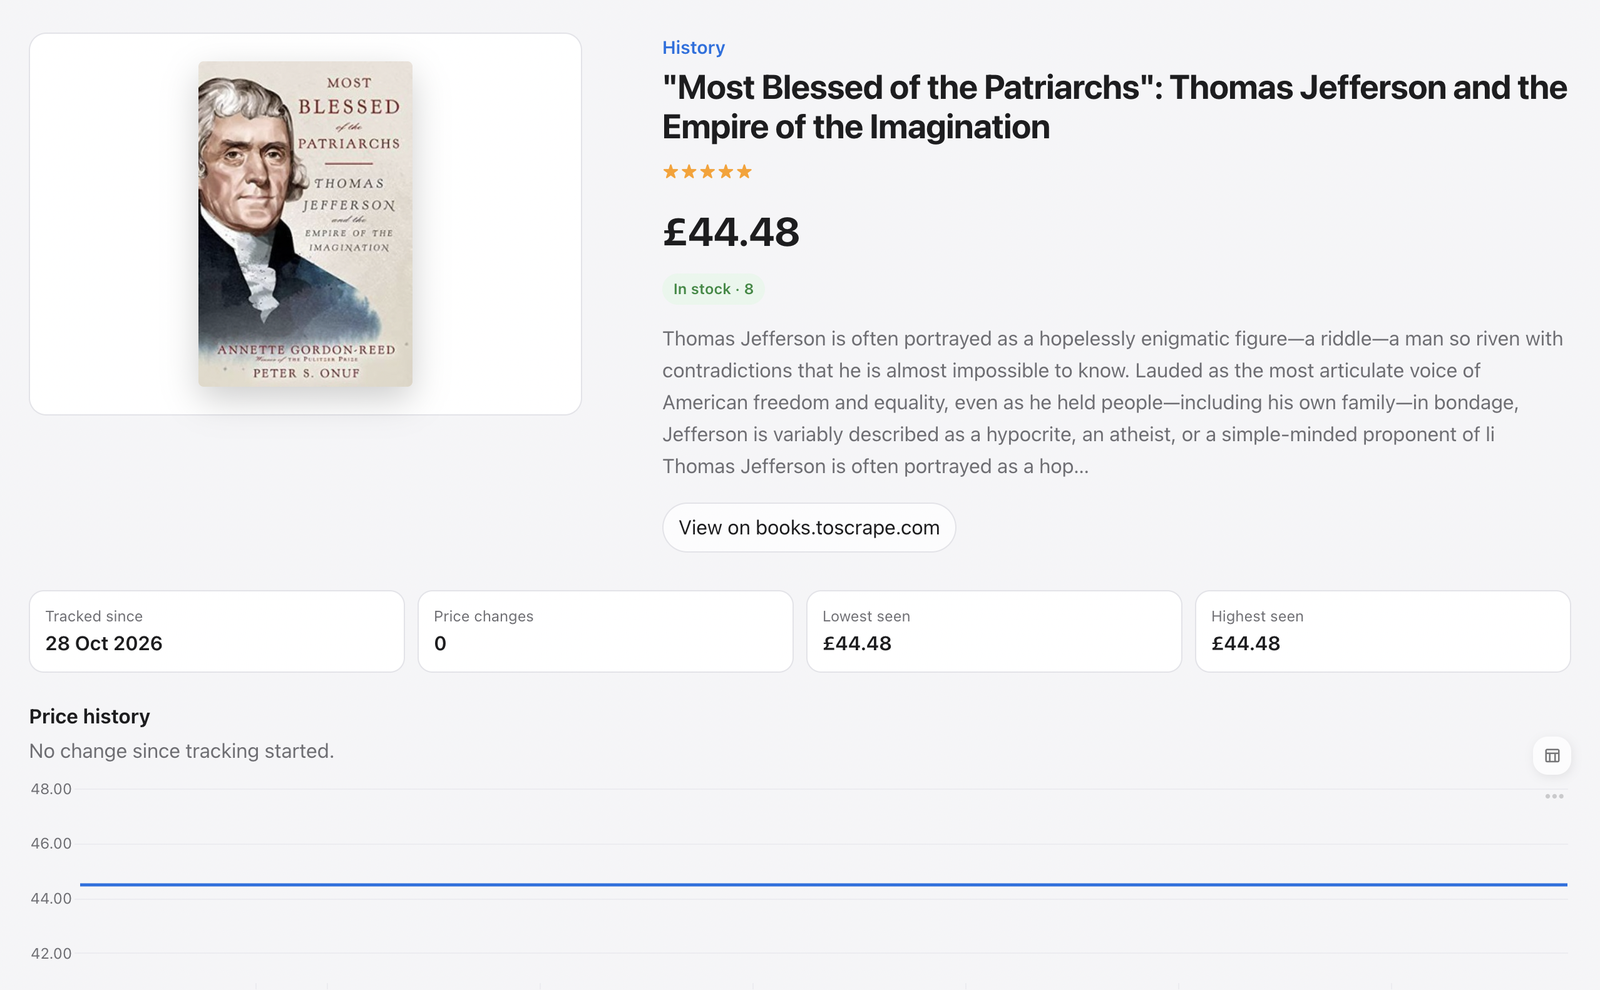
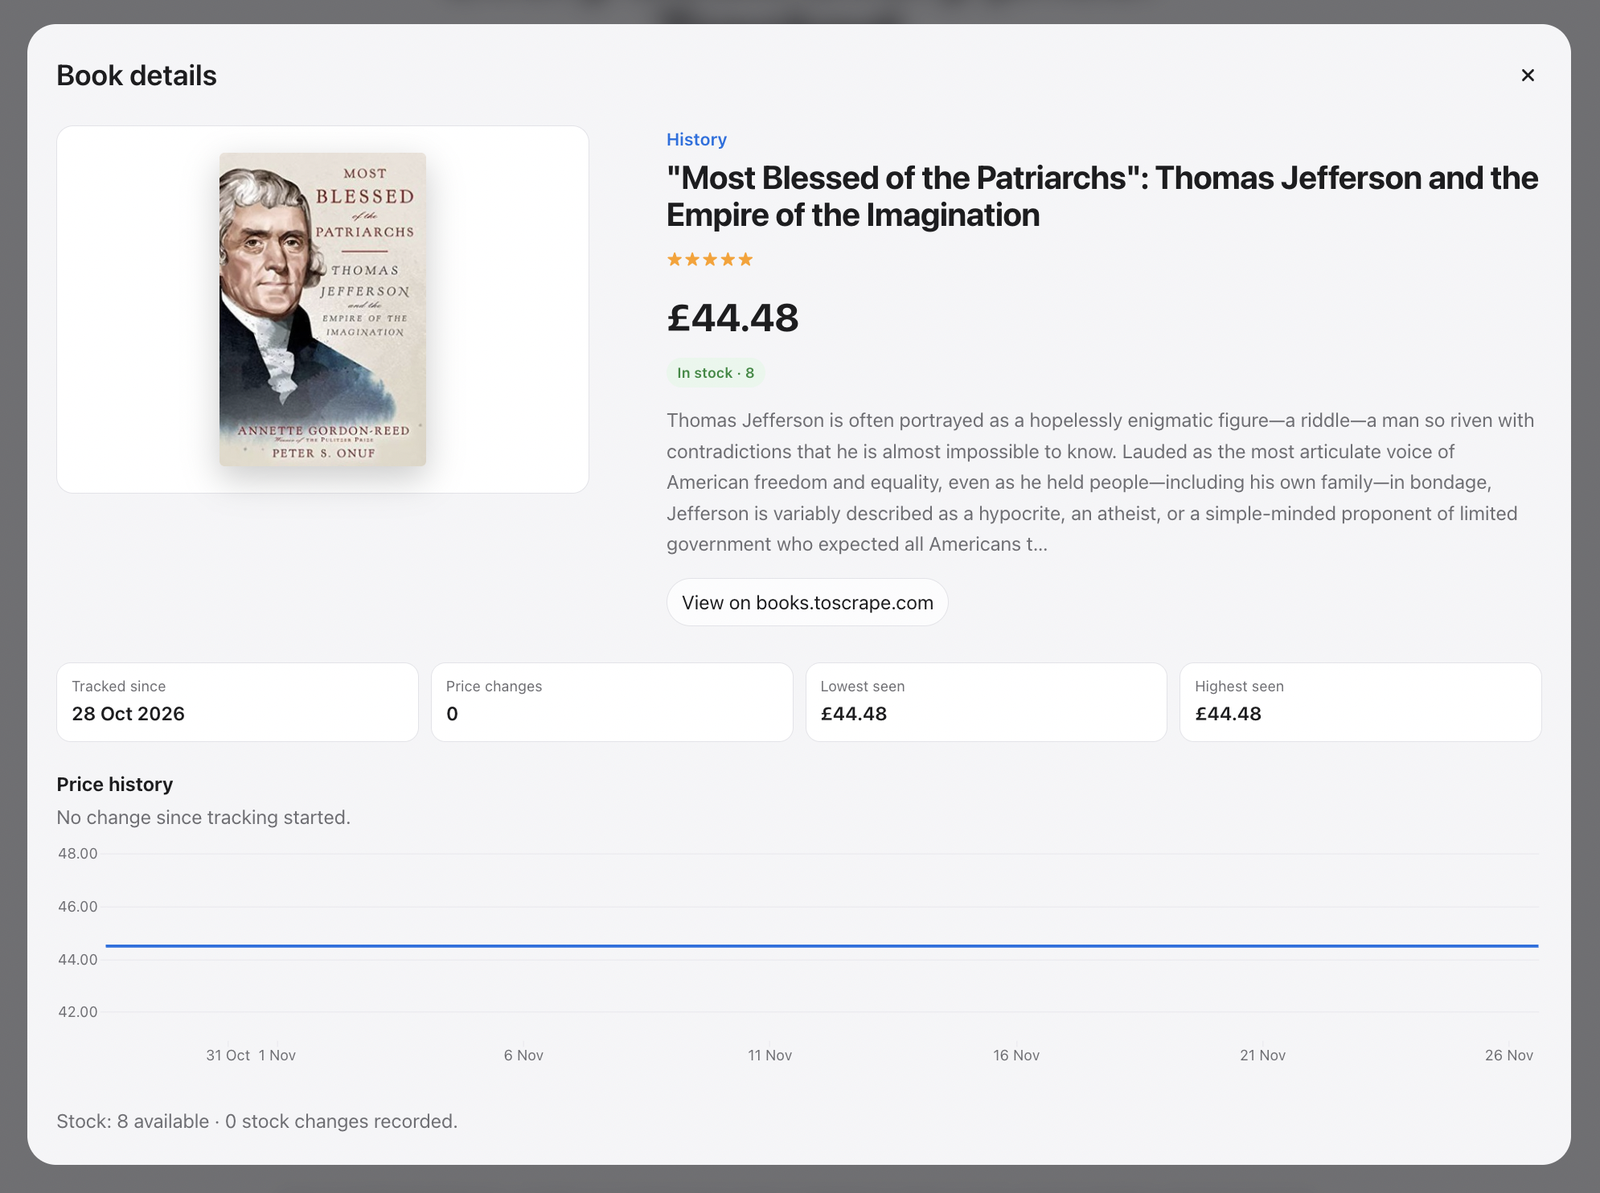
docs: restructure README into the required sections, retake details screenshot
The README predates the submission requirements. Restructured into Purpose,
Data collection, Data persistence, User interaction, Setup, Learning and
Limitations and assistance; existing content moved under them.

Audit pass 1 findings addressed:
- C1: required sections, AI assistance disclosure, other sources
  (Learning still to come)
- C2: complete Setup: view-only option, and running the full pipeline
  against your own Supabase project
- R2: publishable key documented as a deliberate, read-only choice
- R3: details.png retaken; the description no longer shows repeated text
- R4: "tested with" versions (taken from the GitHub Actions run)
- R5: license decision stated

Claude-Session: https://claude.ai/code/session_01V6FKQ1B9GnZ5aef4bSrkRG

diff --git a/README.md b/README.md
@@ -1,23 +1,68 @@
 # Book tracker
 
-Tracks prices and stock of the books on [books.toscrape.com](https://books.toscrape.com) (a scraping sandbox without an API) and keeps their full history in Supabase.
+Scrapes the prices and stock of all 1,000 books on [books.toscrape.com](https://books.toscrape.com), a website without an API, keeps their full history in a Supabase (Postgres) database, and shows everything in a Streamlit app.
 
 ```
 books.toscrape.com ──scrape──▶ JSON file ──load──▶ Supabase (Postgres) ──read-only──▶ Streamlit app
                      scraper/books_scraper.py      scraper/loader.py + apply_run()     frontend/app.py
 ```
 
-| Folder | What it is |
-|---|---|
-| `scraper/` | Scraper, loader and tests. See [scraper/README.md](scraper/README.md). |
-| `frontend/` | Streamlit app to browse books, price history and scrape runs. See [frontend/README.md](frontend/README.md). |
-| `supabase/migrations/` | Database schema, applied to Supabase in filename order. |
-| `.github/workflows/` | `scrape.yml` runs the scraper (schedule prepared, switched off); `tests.yml` runs all tests on every push. |
-
-## Screenshots
-
 ![Browse](docs/screenshots/browse.png)
 *Browse: search, filter and sort 1,000 books*
+
+## Purpose
+
+This is my individual project on getting data from a website that offers no API. It has three parts:
+
+1. **A scraper** that collects every book's title, category, price, stock, rating and description.
+2. **A database** designed to keep history: when a price or stock level changes, the old value is kept, not overwritten.
+3. **An app** to browse the books, see each book's history, and check how the scraper runs went.
+
+## Data collection
+
+- **Source:** [books.toscrape.com](https://books.toscrape.com), a sandbox site made for scraping practice (1,000 fictional book listings on 50 pages). No personal data is collected.
+- **How:** `scraper/books_scraper.py` downloads the 50 listing pages, then each book's detail page (exact stock, UPC, description), and parses the HTML with BeautifulSoup. The result is one JSON file per run.
+- **Being polite:** by default it waits 0.5 s between requests (shared across 4 parallel workers), identifies itself with a User-Agent (`BookTrackerBot/… (student project)`), retries timeouts and server errors with growing waits, and never retries a 404.
+- **Measured:** every run records how many requests failed and how fast the site answered (median, 95th percentile, slowest), so "does the site cope?" is answered with data.
+- **Loading:** `scraper/loader.py` sends a JSON file to the database in one transaction, so a run is saved completely or not at all. Loading the same file twice does nothing.
+
+More options (test runs on 5 books or 3 pages, stress test): see [scraper/README.md](scraper/README.md).
+
+## Data persistence
+
+Everything lives in one Supabase Postgres database. The schema is in [`supabase/migrations/`](supabase/migrations/).
+
+| Table | What it holds |
+|---|---|
+| `books`, `categories`, `sources` | The catalogue. Each book is matched on the site's UPC (`external_id`); our own `id` is the primary key. |
+| `price_history`, `stock_history` | A new row only when a value changes (`valid_from` / `valid_to`; the current value has `valid_to = null`). |
+| `scrape_runs`, `scrape_errors` | Every run and every failed request, with response-time statistics. |
+| `staging_observations` | The raw rows of each run, merged into the tables above by the database function `apply_run()`. The scrape workflow deletes rows older than 30 days. |
+| `books_current` (view) | Each book with its current price and stock, for the app. |
+
+Other places data is kept:
+
+- **JSON files** from each run in `scraper/output/` on the computer that ran the scraper (git-ignored).
+- **GitHub Actions** keeps the JSON file of a workflow run as a download for 30 days.
+
+**Who can do what:** the app uses Supabase's *publishable key*, which is public by design and is built into `frontend/data.py`. Database rules (row-level security plus grants) only let that key **read** the catalogue, history and run tables. It cannot see the error and staging tables or write anything. Only the loader, which uses the database password from `.env` or a GitHub secret, can write.
+
+## User interaction
+
+There are two ways to use the project.
+
+**Browse the data (the app).** Open the Streamlit app; it has three tabs:
+
+| Tab | Shows |
+|---|---|
+| Browse | Search, category filter, sort, "in stock" toggle; book cards with a detail view (price history chart, stock, description). |
+| Insights | Biggest categories with average price, rating distribution, price bands. |
+| Pipeline | Every scrape run: status, books seen, new books, price/stock changes, errors, site response time. |
+
+**Collect new data (the pipeline).** Run the scraper from the command line (`python books_scraper.py --load`), or start the *Daily scrape* workflow by hand in the GitHub Actions tab. The new run then appears in the app's Pipeline tab.
+
+<details>
+<summary>More screenshots</summary>
 
 ![Book details](docs/screenshots/details.png)
 *Book details with price history*
@@ -28,31 +73,116 @@ books.toscrape.com ──scrape──▶ JSON file ──load──▶ Supabase 
 ![Pipeline](docs/screenshots/pipeline.png)
 *Pipeline: every scrape run with changes and site response time*
 
-## Database design
+</details>
 
-- `books`, `categories`, `sources`: the catalogue. Books are matched on the site's UPC (`external_id`); our own `id` is the primary key.
-- `price_history`, `stock_history`: a new row only when a value changes (`valid_from` / `valid_to`; the current value has `valid_to = null`).
-- `scrape_runs`, `scrape_errors`: audit trail of every run, incl. response-time stats.
-- `staging_observations`: raw rows per run; merged by `apply_run()`, pruned after 30 days.
-- `books_current`: view with each book's current price and stock, for the frontend.
+## Setup
 
-Access: the frontend (anon key) can only read; only the backend (database login / service role) can write.
-
-## Running it
-
-- **Automatically:** GitHub Actions workflow `scrape.yml`, prepared for a daily run at 04:17 UTC. The schedule is **switched off** because the sandbox site never changes, so daily runs would only add identical snapshots. To switch it on, uncomment the two `schedule` lines in `.github/workflows/scrape.yml`. Needs the repository secret `DATABASE_URL`.
-- **Manually:** Actions tab → *Daily scrape* → *Run workflow*, or locally:
+Requirements: Python 3.11 or newer. The scraper and the app each have their own virtual environment.
 
 ```bash
-cd scraper && source .venv/bin/activate
-python books_scraper.py --load
+git clone https://github.com/YannikNMody/book-tracker.git
+cd book-tracker
 ```
 
-Locally you need a `.env` file in the repo root (copy `.env.example`). Some networks (e.g. university Wi-Fi) block database connections; GitHub Actions is not affected.
-
-The app needs no setup and works on any network, because it reads over HTTPS:
+### Option A: just look at the data (no account, no keys)
 
 ```bash
-cd frontend && source .venv/bin/activate
+cd frontend
+python3 -m venv .venv
+source .venv/bin/activate        # Windows: .venv\Scripts\activate
+pip install -r requirements.txt
 streamlit run app.py
 ```
+
+The app opens at http://localhost:8501 and reads the existing data from my Supabase project over HTTPS. Run it from inside `frontend/` so the theme in `.streamlit/config.toml` is used.
+
+<!-- TODO: final wording depends on the professor's answer about Supabase pausing. -->
+**If the app shows a connection error:** the database runs on Supabase's free plan, which pauses projects after about a week of low activity. The screenshots show what the app looks like with data.
+
+### Option B: run the whole pipeline with your own database
+
+1. Create a free project at [supabase.com](https://supabase.com).
+2. Apply both files in `supabase/migrations/`, in filename order (Supabase dashboard → SQL editor, or `supabase db push` with the Supabase CLI).
+3. Copy `.env.example` to `.env` in the repo root and fill in `DATABASE_URL`. The file explains where to find it.
+4. Install the scraper and run a small test, then the full catalogue:
+
+   ```bash
+   cd scraper
+   python3 -m venv .venv
+   source .venv/bin/activate
+   pip install -r requirements.txt
+   python books_scraper.py --limit 5 --load    # 5 books
+   python books_scraper.py --load              # all 1,000 books, about 9 minutes
+   ```
+
+5. Point the app at your project with the environment variables `SUPABASE_URL` and `SUPABASE_PUBLISHABLE_KEY` (Supabase dashboard → Project Settings → API Keys), then start it as in option A.
+
+Some networks, such as university Wi-Fi, block direct database connections (port 5432). That only affects loading; the app and GitHub Actions are not affected. To run the scraper on GitHub instead, add `DATABASE_URL` as a repository secret and start the *Daily scrape* workflow.
+
+### Tests
+
+Each part has its own tests; run them inside that part's virtual environment:
+
+```bash
+cd scraper && python -m pytest -q     # scraper + loader
+cd frontend && python -m pytest -q    # app (from the repo root again)
+```
+
+- Scraper and app tests need no internet: a local server imitates the website, and the app runs against fake data.
+- Loader tests need a **disposable** Postgres database, because they wipe it. They are skipped unless `TEST_DATABASE_URL` is set, and they refuse to run against a Supabase host. GitHub Actions runs them against a throwaway database on every push.
+
+Tested with Python 3.12 (GitHub Actions) and requests 2.34.2, beautifulsoup4 4.15.0, lxml 6.1.3, psycopg 3.3.9, python-dotenv 1.2.4, Streamlit 1.67.0, pandas 3.1.1, Altair 6.3.0 and pytest 9.2.0.
+
+## Learning
+
+<!-- TODO (Yannik): write this section yourself, in your own words. -->
+<!-- 1. Big picture: designing the schema first ("skimer" = schema), because it decides what the scraper has to collect; UPC as the site's ID vs. our own primary key; history rows only when something changes. -->
+<!-- 2. Challenge: the database password with special characters broke the connection URL and an error printed it; treated as leaked, reset it, and the loader now encodes passwords and blanks secrets out of messages. -->
+
+_To be written._
+
+## Limitations and assistance
+
+**Limitations**
+
+- **The site never changes.** books.toscrape.com is static, so real runs show 0 price and stock changes. The history logic is covered by tests that simulate changes.
+- **The data is a snapshot.** It comes from four runs: three test and full runs on 28 Oct 2026 and one full run on 3 Nov 2026. The daily schedule is prepared in `.github/workflows/scrape.yml` but switched off, because a static site would only produce identical snapshots.
+- **The app depends on my Supabase project.** If it is paused or deleted, option A shows an error; option B still works.
+- **Two placeholder categories.** The site's "Default" and "Add a comment" categories are shown as "Uncategorized"; the database keeps the original names.
+- **Run numbers start at 4.** A test load used up numbers 1–3 before it was rolled back; that is normal database behaviour.
+- **Not hosted.** The app runs locally.
+
+**AI assistance**
+
+All code in this project was written by AI. I used Claude chat (Opus 5.5) to brainstorm, plan the features and design, and write implementation prompts and guidelines; for this project the chat also wrote much of the code directly. Claude Code (Sonnet 5) implemented, ran, tested and committed the changes in my repository. My part was deciding what to build, making the calls when trade-offs came up, testing the results by hand, and reviewing what went into the repo. Commits made by Claude during submission prep are authored as "Claude".
+
+**Other sources**
+
+- Data: [books.toscrape.com](https://books.toscrape.com), a public sandbox for scraping practice. Book covers are not stored; the app links to them on that site.
+- Services and libraries: Supabase, GitHub Actions, requests, BeautifulSoup, lxml, psycopg, python-dotenv, Streamlit, pandas, Altair, pytest.
+- No tutorials or external code were copied in.
+
+## Technical details
+
+| Folder | What it is |
+|---|---|
+| `scraper/` | Scraper, loader and tests. Options, output format and how loading works: [scraper/README.md](scraper/README.md). |
+| `frontend/` | Streamlit app, read-only data access and tests: [frontend/README.md](frontend/README.md). |
+| `supabase/migrations/` | Database schema and the `apply_run()` merge function, applied in filename order. |
+| `.github/workflows/` | `scrape.yml` runs the scraper and loader (manual start; schedule prepared, switched off); `tests.yml` runs all tests on every push. |
+| `docs/screenshots/` | Screenshots used in this README. |
+
+Design decisions worth knowing:
+
+- **History only on change.** Price and stock rows are added only when a value differs from the current one, so the history stays small and every row means something.
+- **All-or-nothing loads.** One transaction per run; a failed load leaves the database unchanged and the JSON file can be loaded again later.
+- **Circuit breaker.** Only a complete, error-free full run may mark books as no longer listed, and only if it saw at least half the catalogue, so a broken page layout cannot wipe the data.
+- **Money as exact numbers.** Prices are stored as `numeric` and passed around as strings, never as floating-point numbers.
+
+## Audit
+
+Before publishing, the repository was checked for secrets, personal data, unnecessary files and documentation gaps with an AI-assisted audit. See [AUDIT.md](AUDIT.md).
+
+## License
+
+No license: coursework, published for grading. All rights reserved.
